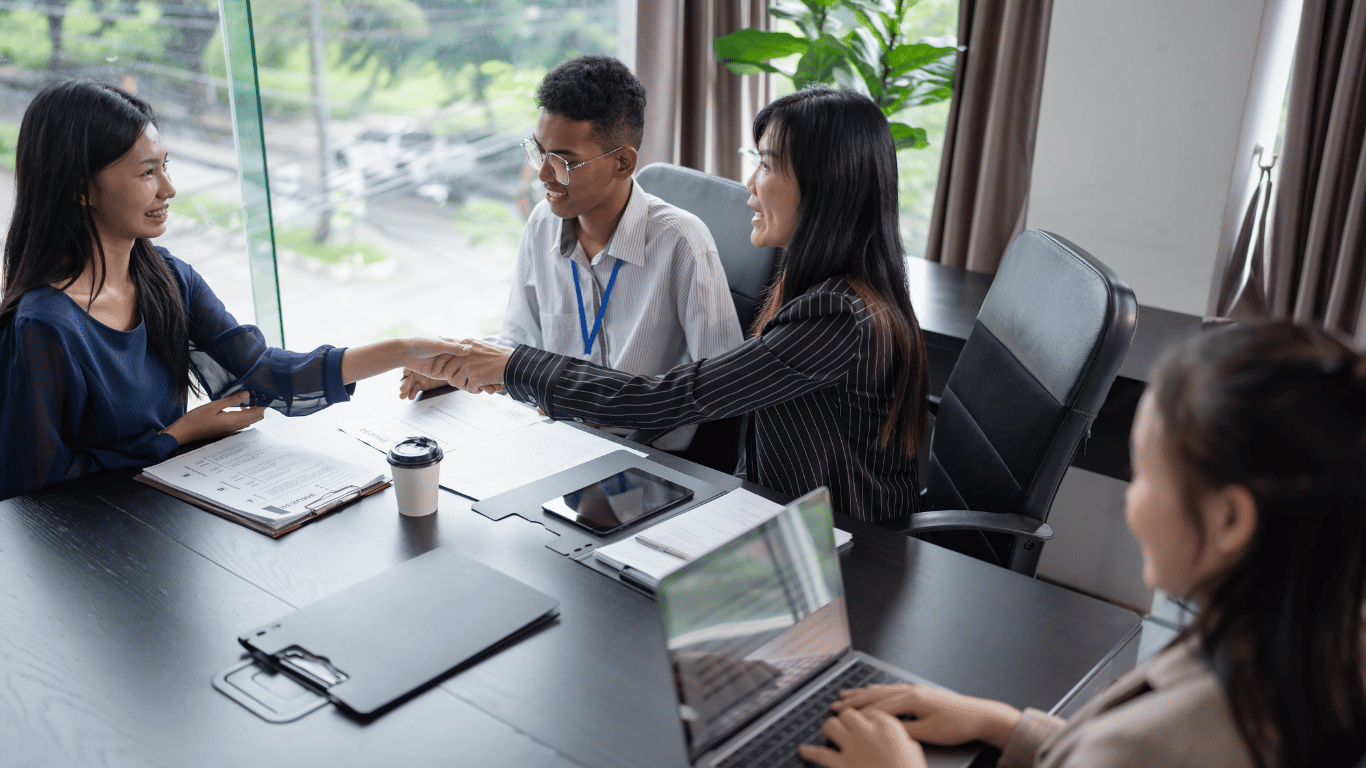
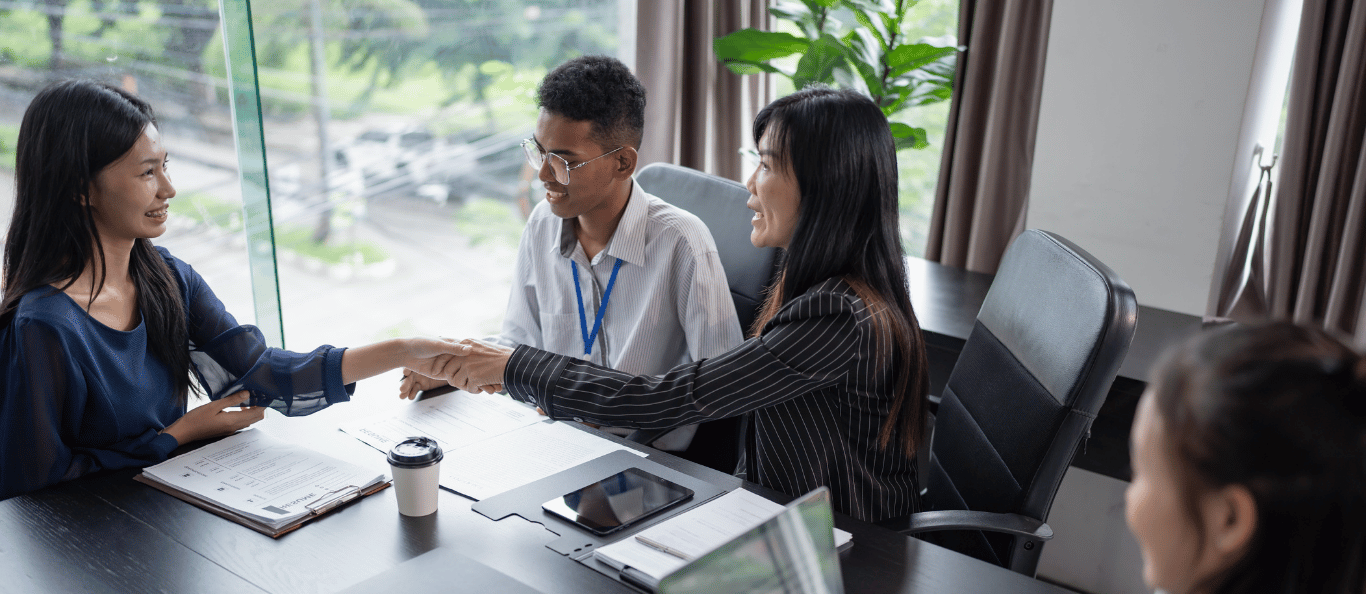
update slider

diff --git a/public/css/styles.css b/public/css/styles.css
@@ -24,17 +24,20 @@ body {
 .carousel-container {
     position: relative;
     width: 100%;
-    height: 80%;
+    height: 100%;
 }
 .carousel-slide {
     position: absolute;
-    top: 0; left: 0;
+    inset: 0;
     width: 100%;
     height: 100%;
-    background-size: cover;
-    background-position: center;
     opacity: 0;
     transition: opacity 1s ease-in-out;
+    background-position: center center !important;
+    background-size: cover !important;        
+    background-repeat: no-repeat !important;
+    /* Optional but recommended – fallback color if image fails */
+    background-color: #991b1b;
 }
 .carousel-slide.active {
     opacity: 1;
